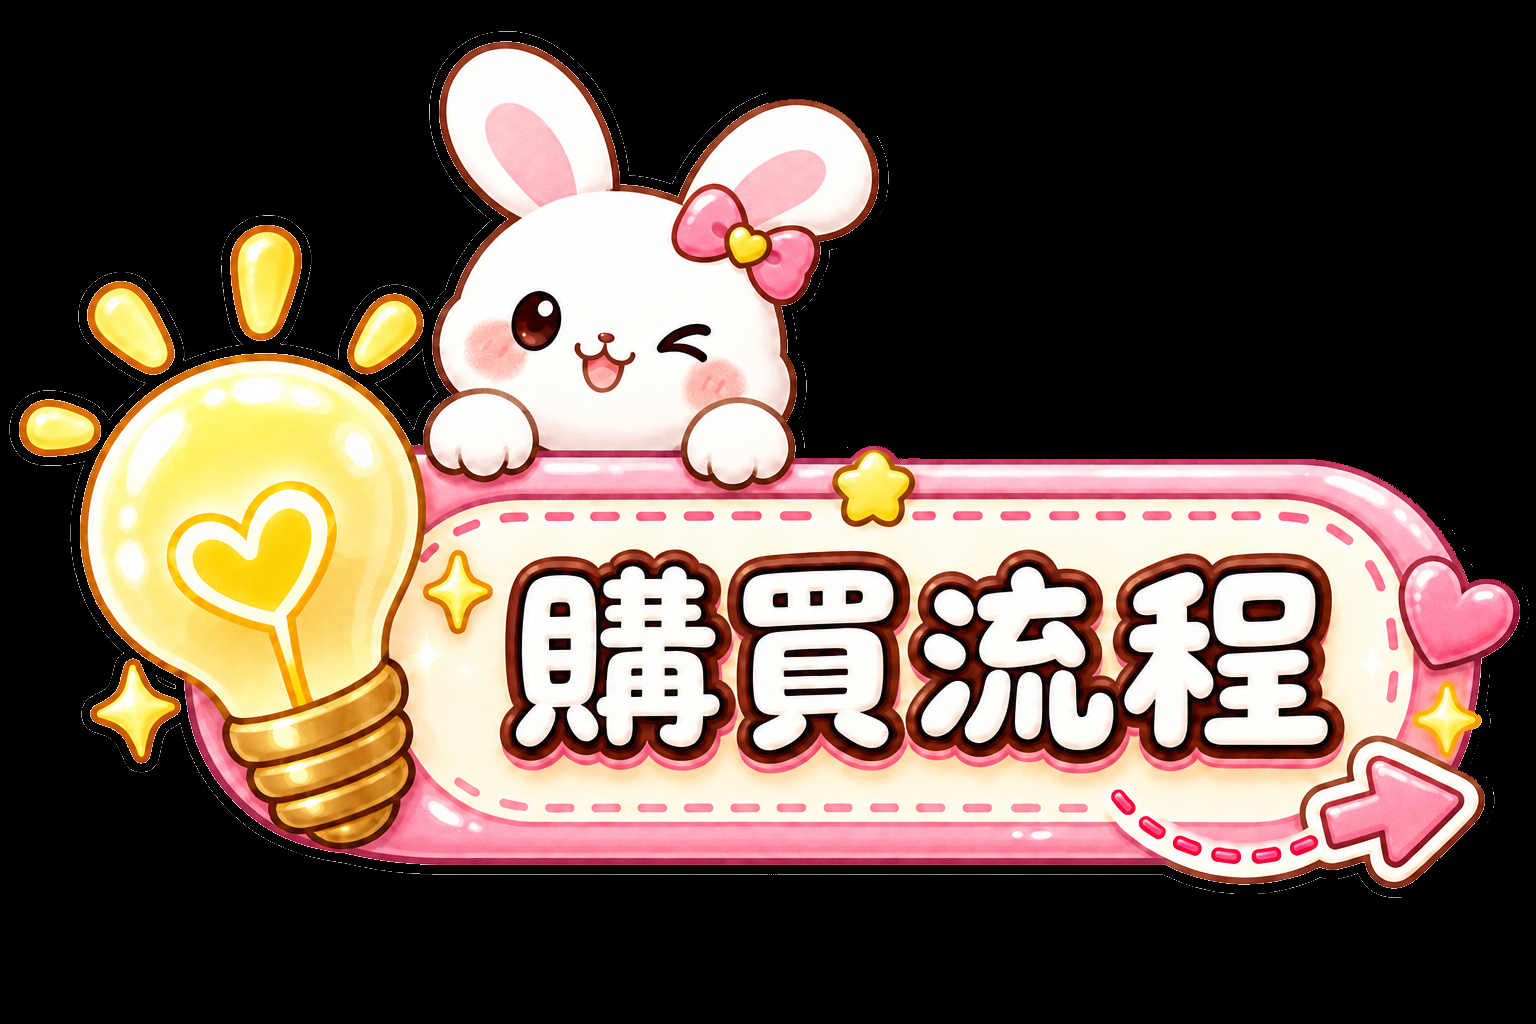
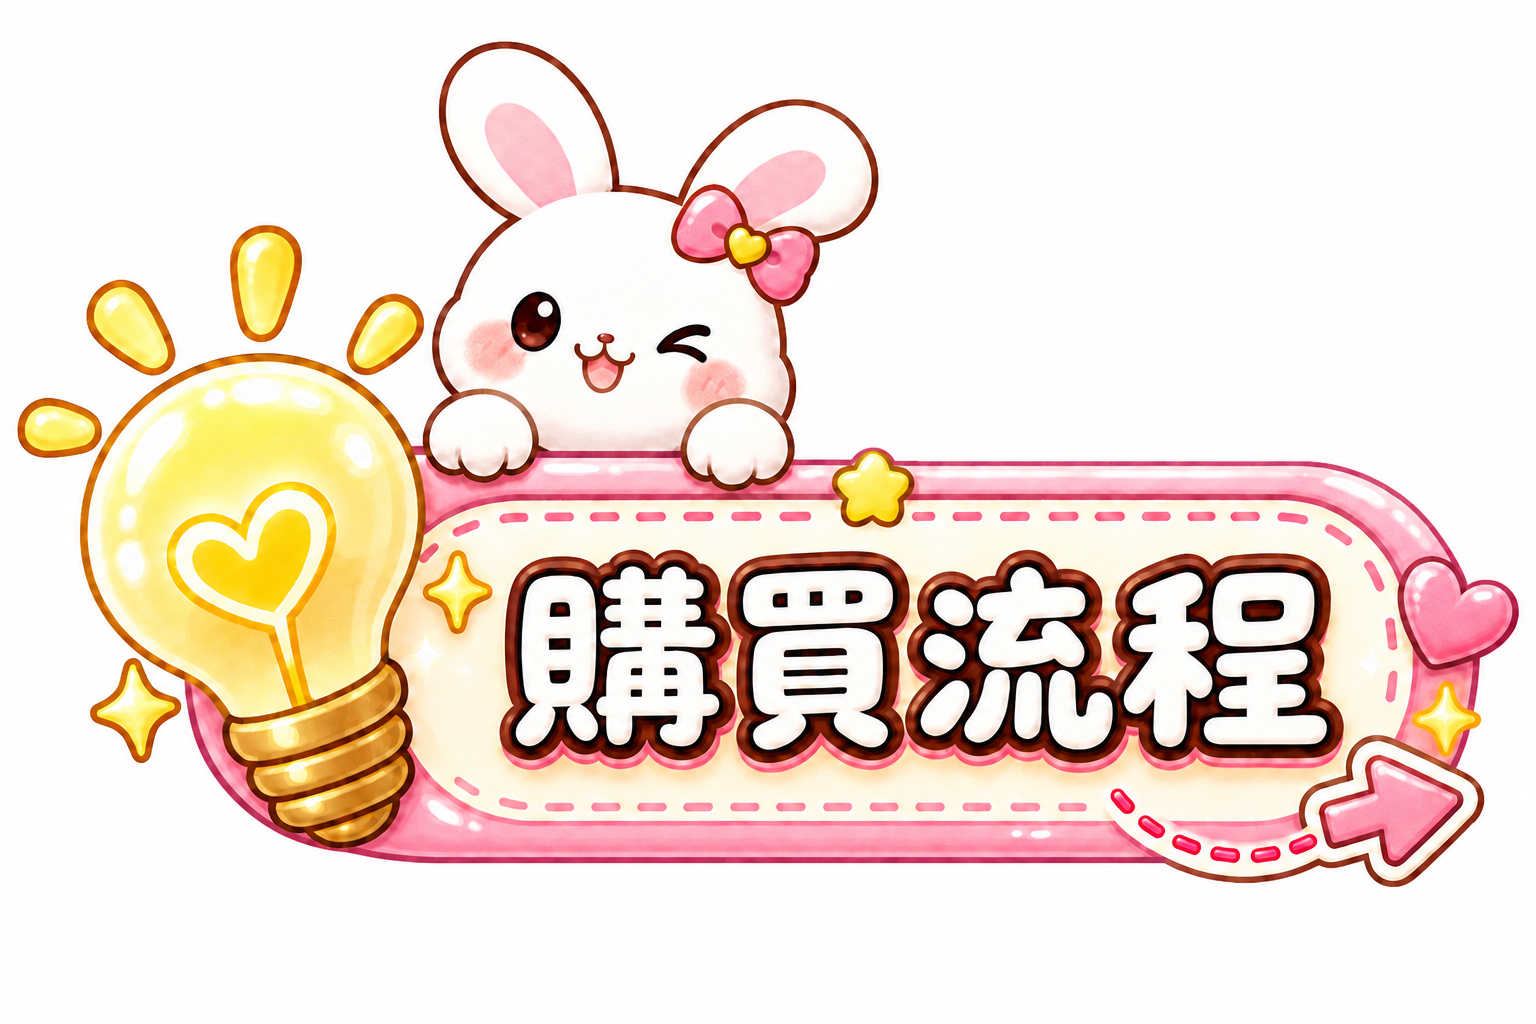
Use white purchase guide background

diff --git a/index.html b/index.html
@@ -147,8 +147,8 @@
     }
 
     .purchase-guide-button {
-      width: 168px;
-      height: 76px;
+      width: 190px;
+      height: 100px;
       padding: 0;
       border: 0;
       border-radius: 0;
@@ -169,7 +169,6 @@
       height: 100%;
       object-fit: contain;
       object-position: center;
-      mix-blend-mode: screen;
     }
 
     .categories-head {
@@ -1192,8 +1191,8 @@
       }
 
       .purchase-guide-button {
-        width: 128px;
-        height: 58px;
+        width: 145px;
+        height: 76px;
       }
 
       .categories-heading {
